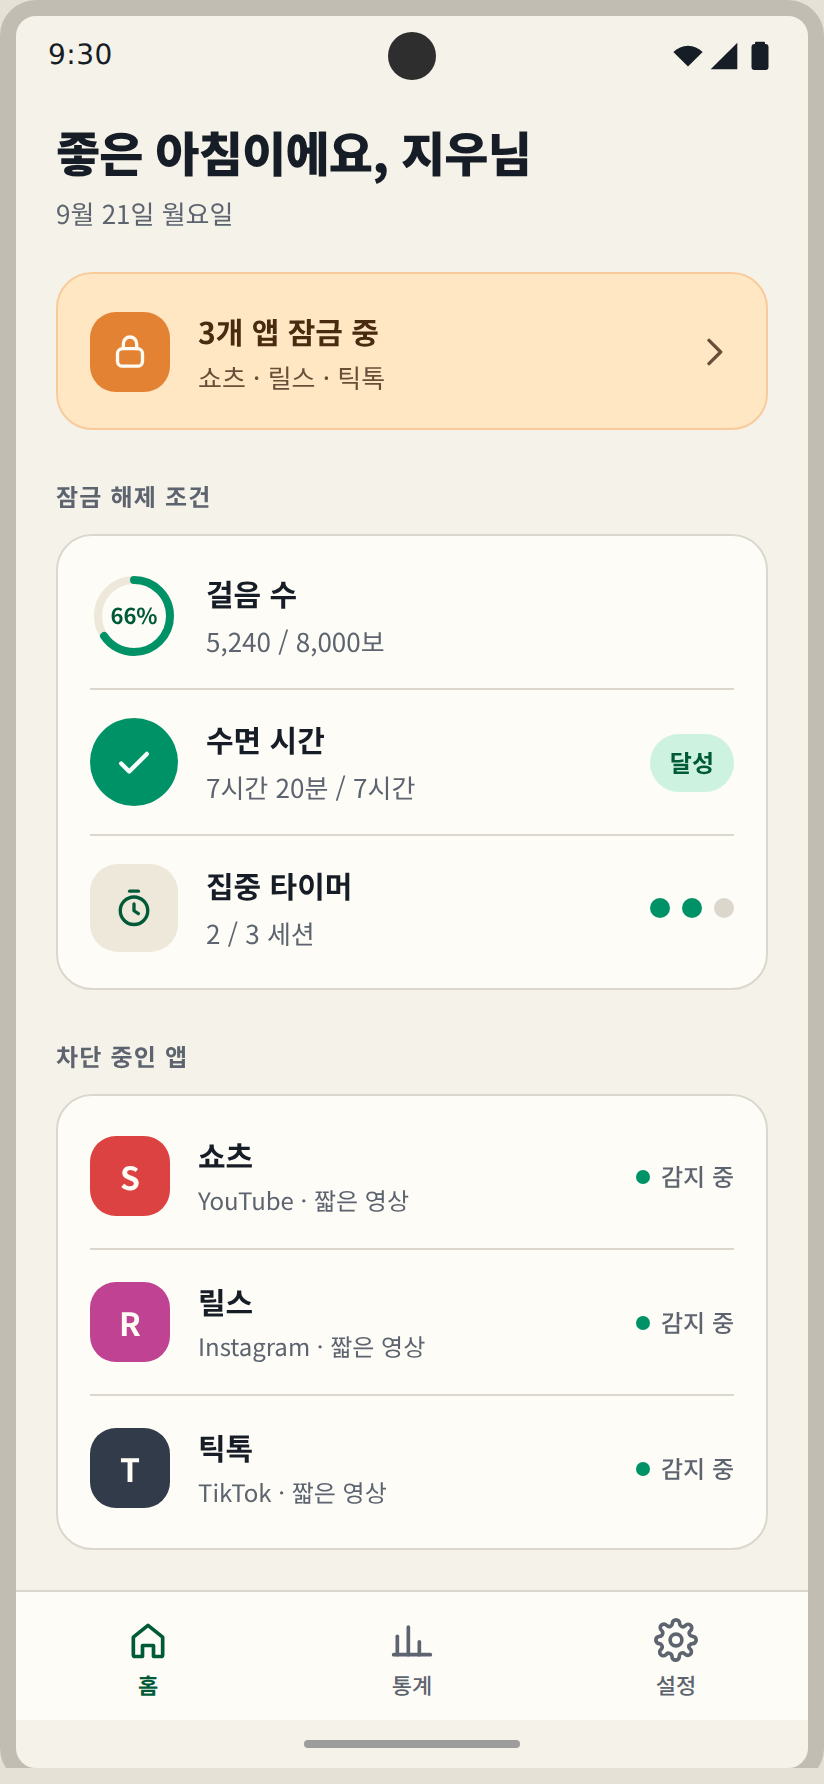
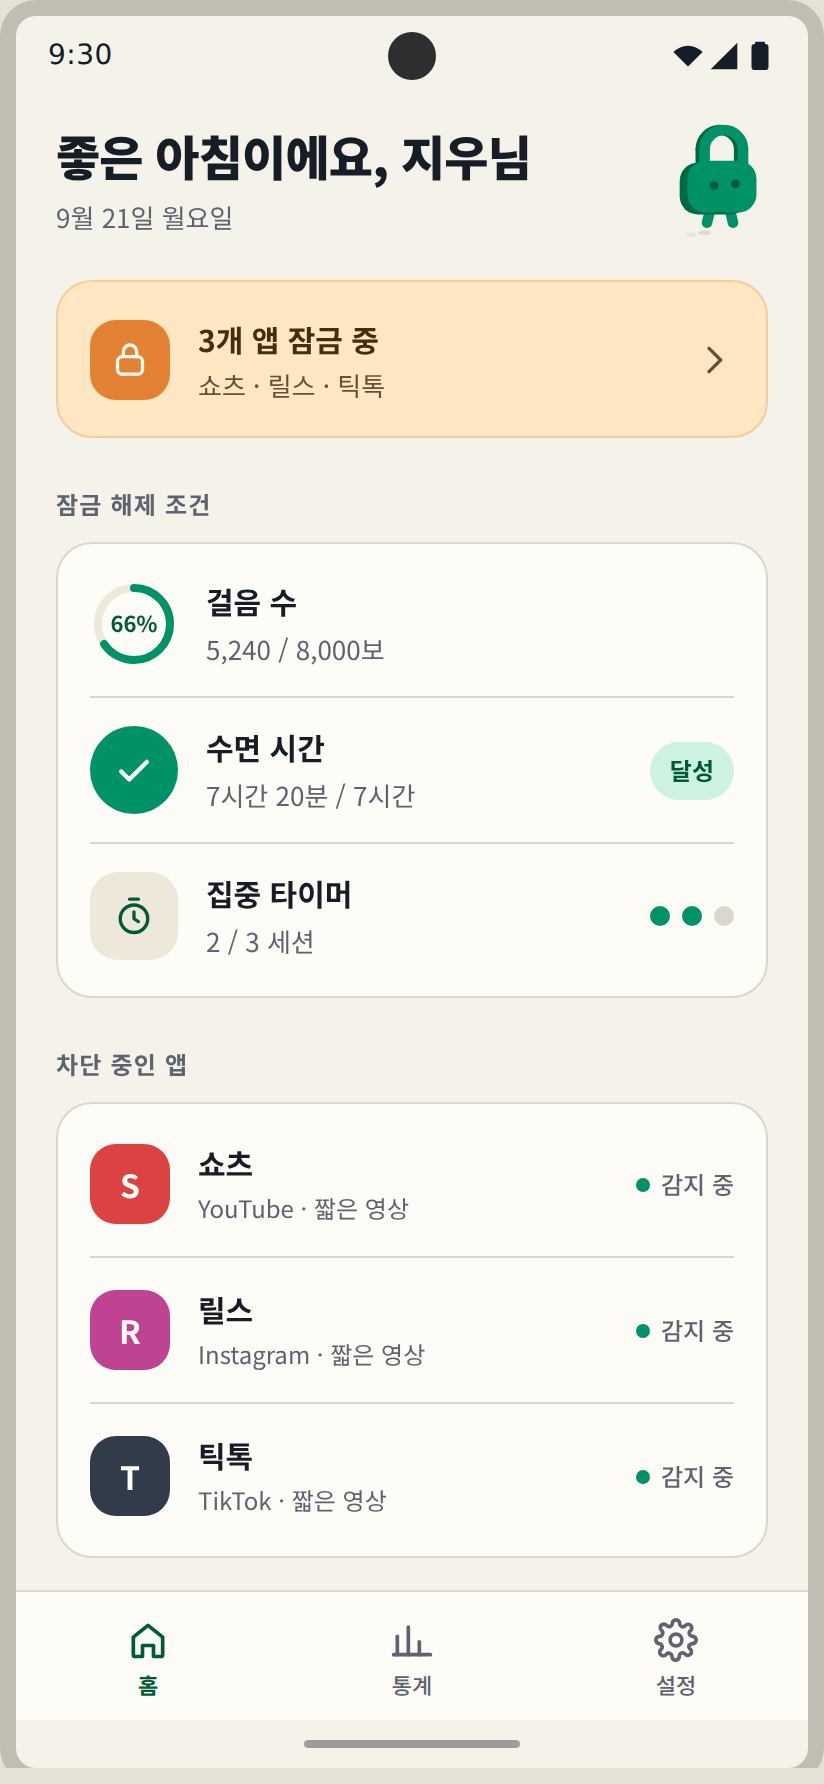
캐릭터 걷기 동작 교정 및 화면 이미지 갱신
두 다리가 같은 방향으로 회전해 스윙이 클 때 서로 겹쳤습니다. 부호를
반대로 두어 앞뒤로 벌어지게 했습니다. 온보딩·홈 화면 이미지를 캐릭터가
들어간 현재 구현으로 다시 렌더하고, README에 걷는 애니메이션 GIF를
추가했습니다.

Claude-Session: https://claude.ai/code/session_01TfDVSB28YoT3k36WsBEoLF

diff --git a/app/src/main/java/com/steplock/app/ui/components/StepLockMascot.kt b/app/src/main/java/com/steplock/app/ui/components/StepLockMascot.kt
@@ -91,8 +91,9 @@ fun StepLockMascot(
                 cap = StrokeCap.Round,
             )
         }
-        leg(hipX = 40f, angleDegrees = swing)
-        leg(hipX = 60f, angleDegrees = -swing)
+        // 두 다리가 서로 반대 방향으로 벌어져야 걷는 것처럼 보입니다. 같은 쪽으로 돌면 다리가 겹칩니다.
+        leg(hipX = 40f, angleDegrees = -swing)
+        leg(hipX = 60f, angleDegrees = swing)
 
         // 뒤쪽으로 살짝 밀려난 몸통이 입체감을 만듭니다.
         drawRoundRect(

diff --git a/README.md b/README.md
@@ -23,6 +23,10 @@
 
 ## 캐릭터
 
+<p align="center">
+  <img src="docs/screens/mascot-walk.gif" width="120" alt="걷는 자물쇠 캐릭터 애니메이션" />
+</p>
+
 <p align="center"><img src="docs/screens/mascot-walk.png" width="70%" alt="걷는 자물쇠 캐릭터의 네 프레임" /></p>
 
 이름 그대로 걸어서 잠금을 푸는 앱이라, 다리가 달린 자물쇠를 마스코트로 씁니다.
